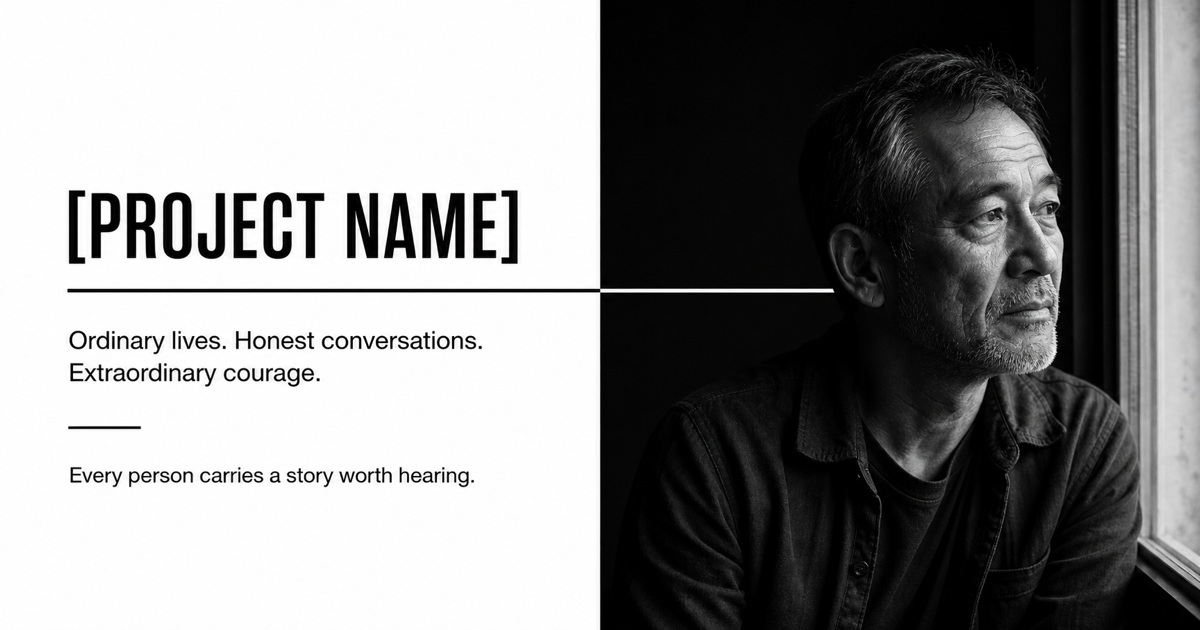
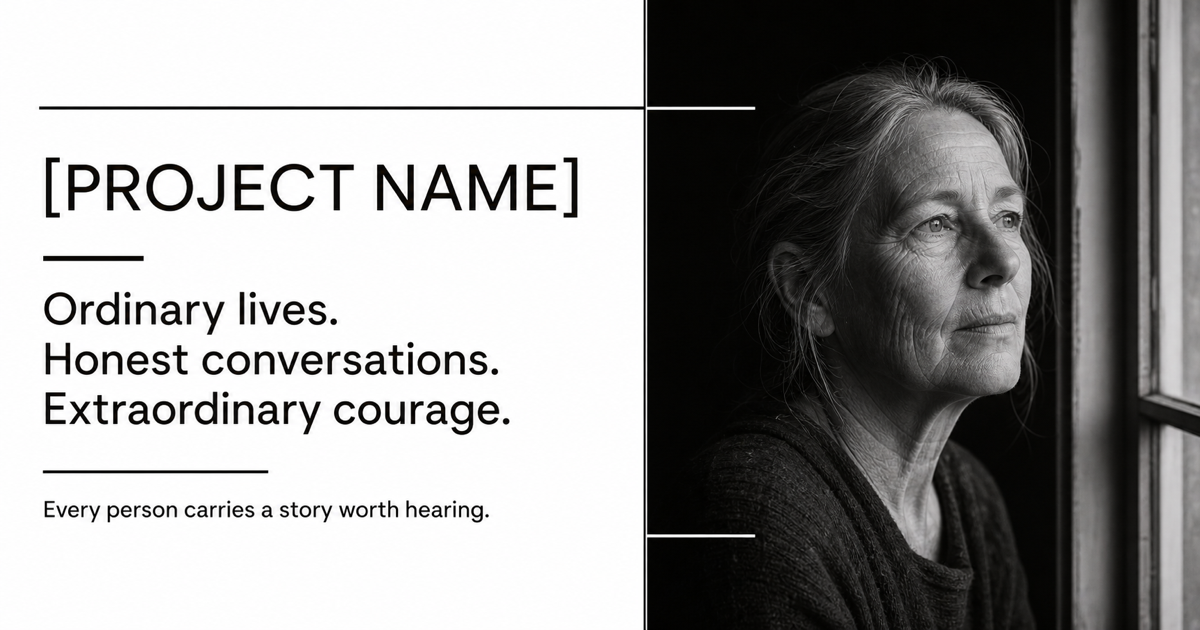
Soften dark heading color

diff --git a/app/components/MissionVision.tsx b/app/components/MissionVision.tsx
@@ -3,7 +3,7 @@ import { Reveal } from "./Reveal";
 
 export function MissionVision() {
   return (
-    <section id="mission" aria-labelledby="mission-heading" className="section-pad overflow-hidden border-t border-black/10 bg-white font-sans text-black">
+    <section id="mission" aria-labelledby="mission-heading" className="section-pad overflow-hidden border-t border-black/10 bg-white font-sans text-dark-heading">
       <div className="page-shell">
         <Reveal>
           <p className="eyebrow eyebrow-dark">What we are building</p>
@@ -25,7 +25,7 @@ export function MissionVision() {
 
         <Reveal className="mt-14 grid gap-5 sm:grid-cols-[auto_1fr] sm:items-start lg:mt-20">
           <span className="mt-2 hidden h-px w-24 bg-black sm:block" aria-hidden="true" />
-          <blockquote className="max-w-5xl text-[clamp(2.6rem,5.6vw,6rem)] font-medium leading-[0.95] tracking-[-0.05em] text-black">
+          <blockquote className="max-w-5xl text-[clamp(2.6rem,5.6vw,6rem)] font-medium leading-[0.95] tracking-[-0.05em] text-dark-heading">
             “You do not have to arrive before your story matters.”
           </blockquote>
         </Reveal>

diff --git a/app/components/ConversationPillars.tsx b/app/components/ConversationPillars.tsx
@@ -8,7 +8,7 @@ export function ConversationPillars() {
   const reduceMotion = useReducedMotion();
 
   return (
-    <section id="conversations" aria-labelledby="conversations-heading" className="section-pad border-t border-black/10 bg-white font-sans text-black">
+    <section id="conversations" aria-labelledby="conversations-heading" className="section-pad border-t border-black/10 bg-white font-sans text-dark-heading">
       <div className="page-shell">
         <div className="grid gap-8 lg:grid-cols-[1fr_.65fr] lg:items-end">
           <Reveal>

diff --git a/app/globals.css b/app/globals.css
@@ -7,6 +7,7 @@
   --paper: #050505;
   --clay: #ffffff;
   --copper: #ffffff;
+  --dark-heading: #090503;
 }
 
 @theme inline {
@@ -16,6 +17,7 @@
   --color-paper: var(--paper);
   --color-clay: var(--clay);
   --color-copper: var(--copper);
+  --color-dark-heading: var(--dark-heading);
   --font-display: var(--font-manrope);
   --font-sans: var(--font-manrope);
 }

diff --git a/app/config/site.ts b/app/config/site.ts
@@ -35,6 +35,7 @@ export const siteConfig = {
       paper: "#050505",
       clay: "#ffffff",
       copper: "#ffffff",
+      darkHeading: "#090503",
     },
     fonts: {
       display: "Manrope",
